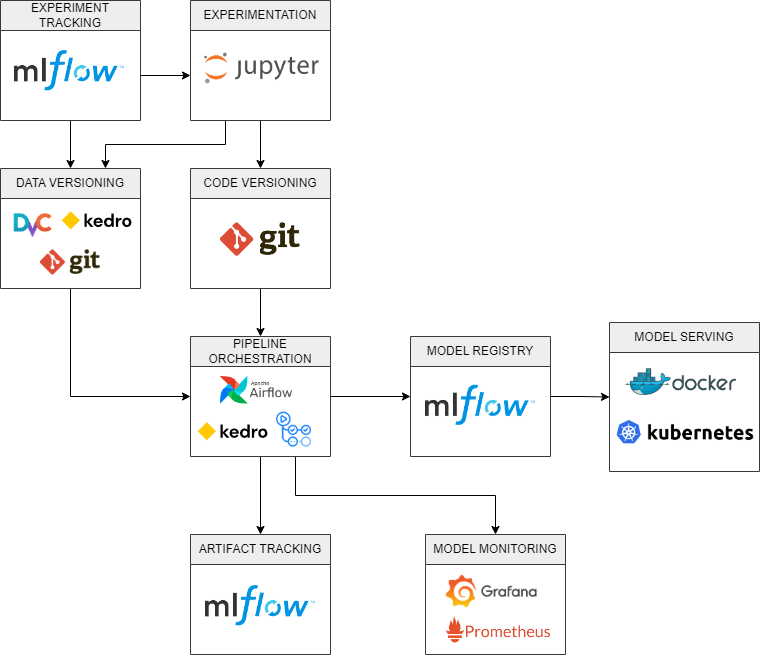
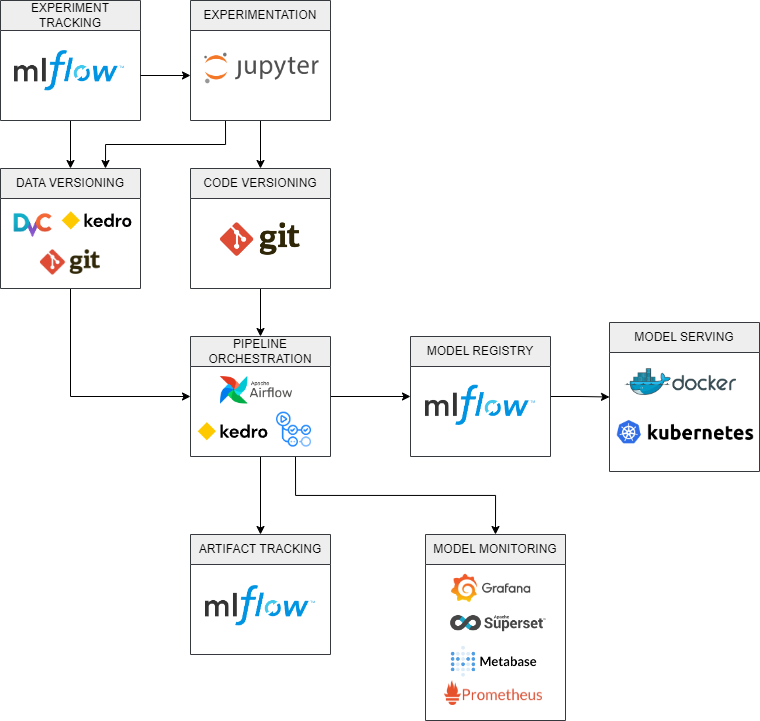
updates

diff --git a/README.md b/README.md
@@ -6,7 +6,7 @@ Este projeto faz parte de um case realizado para preenchimento de uma vaga de Da
 
 A estrutura deste repositório é a seguinte:
 
-- conf: Inclui as configurações básicas do projeto (arquivos YML). Aqui fica o catálogo de todos os dados e parâmetros que serão utilizados nos pipelines.
+- conf: Inclui as configurações básicas do projeto (arquivos YML) e ambientes (base e local). Aqui ficam o catálogo de todos os dados e parâmetros que serão utilizados nos pipelines.
 - data: Armazena os dados utilizados no projeto ao longo de todas as etapas. Métricas, modelos e hiperparâmetros também são guardados aqui. Os dados brutos devem ficar em data/01_raw
 - notebooks: onde os notebooks com testes e rascunhos são armazenados
 - src: local onde são armazenados e organizados os pipelines do Kedro:
@@ -59,6 +59,6 @@ Caso estes novos modelos sejam de fato utilizados, devem ser treinados e retrein
     * Para monitoramento dos modelos podemos utilizar ferramentas como:
         * **Prometheus**: Para monitoramento e alertas (pode ser combinado com o Grafana)
         * **Grafana**: Criação de Dashboards personalizados para monitoramento das métricas
-        * **Redash**, **Metabase** ou **Superset**: caso algum desses produtos já seja utilizado, é possível personalizarmos dashboards neles para que possamos acompanhar as métricas desejadas dos nossos modelos.
+        * **Metabase** ou **Superset**: caso algum desses produtos já seja utilizado, é possível personalizarmos dashboards neles para que possamos acompanhar as métricas desejadas dos nossos modelos.
 
  ![](MLOPS-Stone.png)
